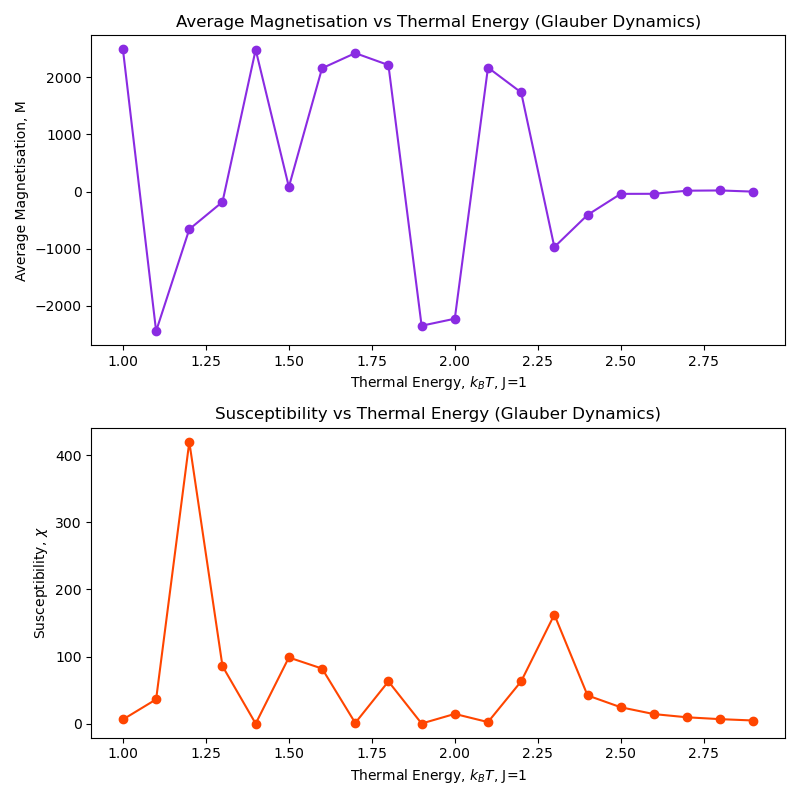
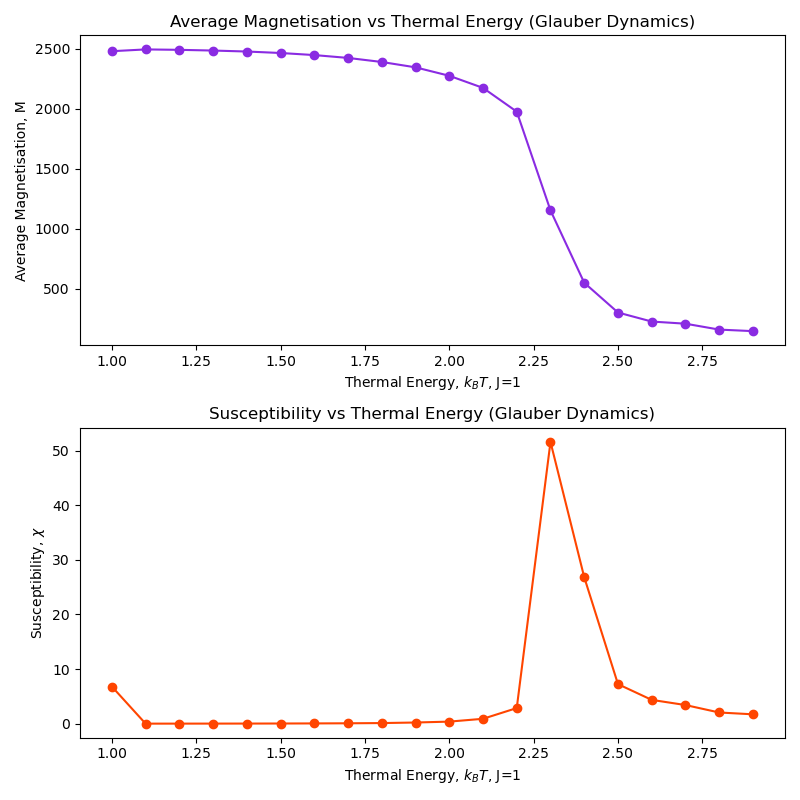
task4 data complete

diff --git a/checkpoint 1/task456_collect.py b/checkpoint 1/task456_collect.py
@@ -2,8 +2,8 @@ from ising import Ising
 import pandas as pd
 import numpy as np
 
-def write_task4(filepath):
-    """write average magnetisation and susceptibility data to file.
+def collect_task4(filepath):
+    """compute and write average magnetisation and susceptibility data to file.
        filepath: {str} file path of data file to be written"""
     thermal_energies = np.arange(1, 3, 0.1)           # List of thermal energies to probe
     thermal_energies = np.round(thermal_energies, 1)  # Round to 1 decimal place
@@ -30,8 +30,8 @@ def write_task4(filepath):
     df = pd.DataFrame(data, columns=['kBT', 'M', 'chi'])
     df.to_csv(filepath, mode='a', index=False, header=True)
 
-def write_task56(filepath, dynamics):
-    """write average energy and heat capacity data to file.
+def collect_task56(filepath, dynamics):
+    """compute and write average energy and heat capacity data to file.
        filepath: {str} file path of data file to be written
        dynamics: {str} dynamics type, 'G' for Glauber, 'K' for Kawasaki"""
     while dynamics not in {'G', 'K'}:                       # Validate user input
@@ -41,8 +41,15 @@ def write_task56(filepath, dynamics):
     thermal_energies = np.round(thermal_energies, 1)        # Round to 1 decimal place
     
     data = []                                               # Initialise empty data array
+    I = Ising(50, None, dynamics)                           # Initialise Ising model class instance 
+
     for kBT in thermal_energies:                            # Loop over thermal energies
-        I = Ising(50, kBT, dynamics)
+        """reuse Ising instance to retain spin lattice between runs"""
+        I.kBT = kBT                                         # Set thermal energy
+
+        I.E = np.empty(0)                                   # Reset energy and magnetisation arrays
+        I.M = np.empty(0)
+
         I.run(10000)                                        # Run simulation for 10000 sweeps    
 
         E, E2 = I.avg_E(I.E)
@@ -58,5 +65,5 @@ def write_task56(filepath, dynamics):
 
 
 if __name__ == "__main__":
-    filepath = "./task6_1.txt"
-    write_task56(filepath, 'K')
+    filepath = "./task4.txt"
+    collect_task4(filepath)

diff --git a/checkpoint 1/ising.py b/checkpoint 1/ising.py
@@ -150,7 +150,7 @@ class Ising:
     def avg_M(self, M):
         """return average magnetisation and average magnetisation squared.
            M: {arr} magnetisation measurements array"""
-        return np.mean(M), np.mean(np.square(M))
+        return np.mean(np.abs(M)), np.mean(np.square(M))
     
     def susceptibility(self, M, M2):
         """return susceptibility.

diff --git a/checkpoint 1/task456_plot.py b/checkpoint 1/task456_plot.py
@@ -51,5 +51,5 @@ def plot_task56(filepath):
     plt.show()
 
 if __name__ == "__main__":
-    filepath = "./task5_1.txt"
-    plot_task56(filepath)
+    filepath = "./task4.txt"
+    plot_task4(filepath)
